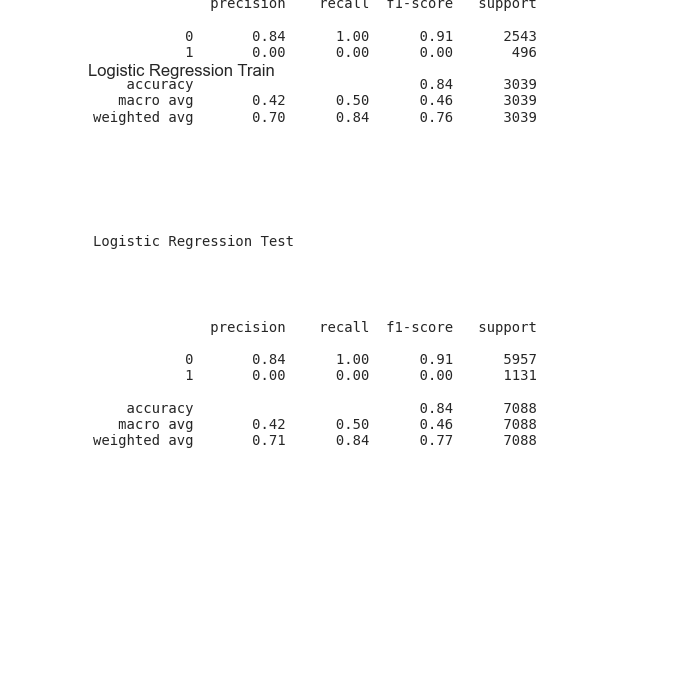
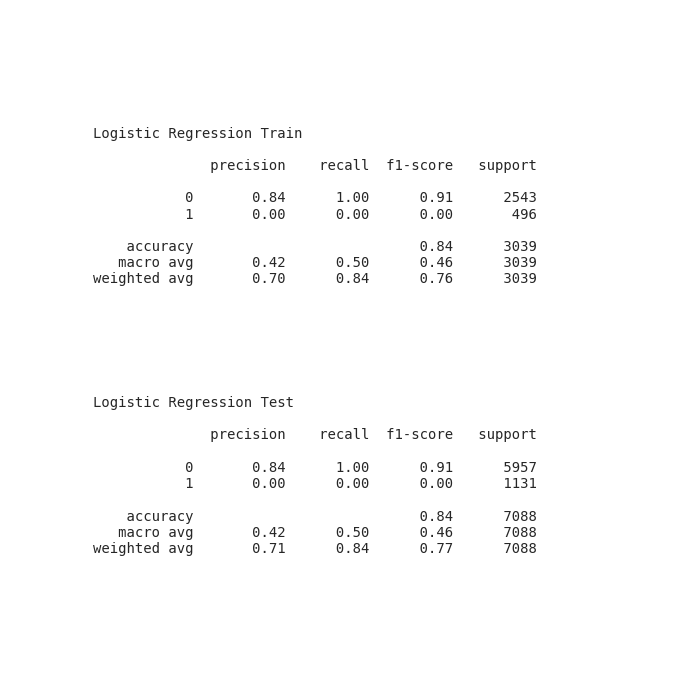
Fixed bugs related to model results images

diff --git a/churn_library.py b/churn_library.py
@@ -186,19 +186,24 @@ def classification_report_image(y_train,
     # Random Forest
     plt.figure(figsize=(7, 7))
     # plt.text(0.01, 0.05, str(model.summary()), {'fontsize': 12}) old approach
-    plt.title("Random Forest Train", loc="left")
+    # plt.title("Random Forest Train", loc="left")
     plt.text(
-        0.01, 0.3,
-        str(classification_report(y_test, y_test_preds_rf, zero_division=0)),
-        {'fontsize': 10},
-        fontproperties='monospace')  # approach improved by OP -> monospace!
-    plt.text(
-        0.01, 0.7,
+        0.01, 0.4,
         str('Random Forest Test'),
         {'fontsize': 10},
         fontproperties='monospace')
     plt.text(
+        0.01, 0.1,
+        str(classification_report(y_test, y_test_preds_rf, zero_division=0)),
+        {'fontsize': 10},
+        fontproperties='monospace')  # approach improved by OP -> monospace!
+    plt.text(
         0.01, 0.9,
+        str('Random Forest Train'),
+        {'fontsize': 10},
+        fontproperties='monospace')
+    plt.text(
+        0.01, 0.6,
         str(classification_report(y_train, y_train_preds_rf, zero_division=0)),
         {'fontsize': 10},
         fontproperties='monospace')  # approach improved by OP -> monospace!
@@ -208,19 +213,24 @@ def classification_report_image(y_train,
 
     # Logistic regression
     plt.figure(figsize=(7, 7))
-    plt.title("Logistic Regression Train", loc="left")
+    # plt.title("Logistic Regression Train", loc="left")
     plt.text(
-        0.01, 0.3,
-        str(classification_report(y_train, y_train_preds_lr, zero_division=0)),
-        {'fontsize': 10},
-        fontproperties='monospace')  # approach improved by OP -> monospace!
-    plt.text(
-        0.01, 0.7,
+        0.01, 0.4,
         str('Logistic Regression Test'),
         {'fontsize': 10},
         fontproperties='monospace')
     plt.text(
+        0.01, 0.1,
+        str(classification_report(y_train, y_train_preds_lr, zero_division=0)),
+        {'fontsize': 10},
+        fontproperties='monospace')  # approach improved by OP -> monospace!
+    plt.text(
         0.01, 0.9,
+        str('Logistic Regression Train'),
+        {'fontsize': 10},
+        fontproperties='monospace')
+    plt.text(
+        0.01, 0.6,
         str(classification_report(y_test, y_test_preds_lr, zero_division=0)),
         {'fontsize': 10},
         fontproperties='monospace')  # approach improved by OP -> monospace!
